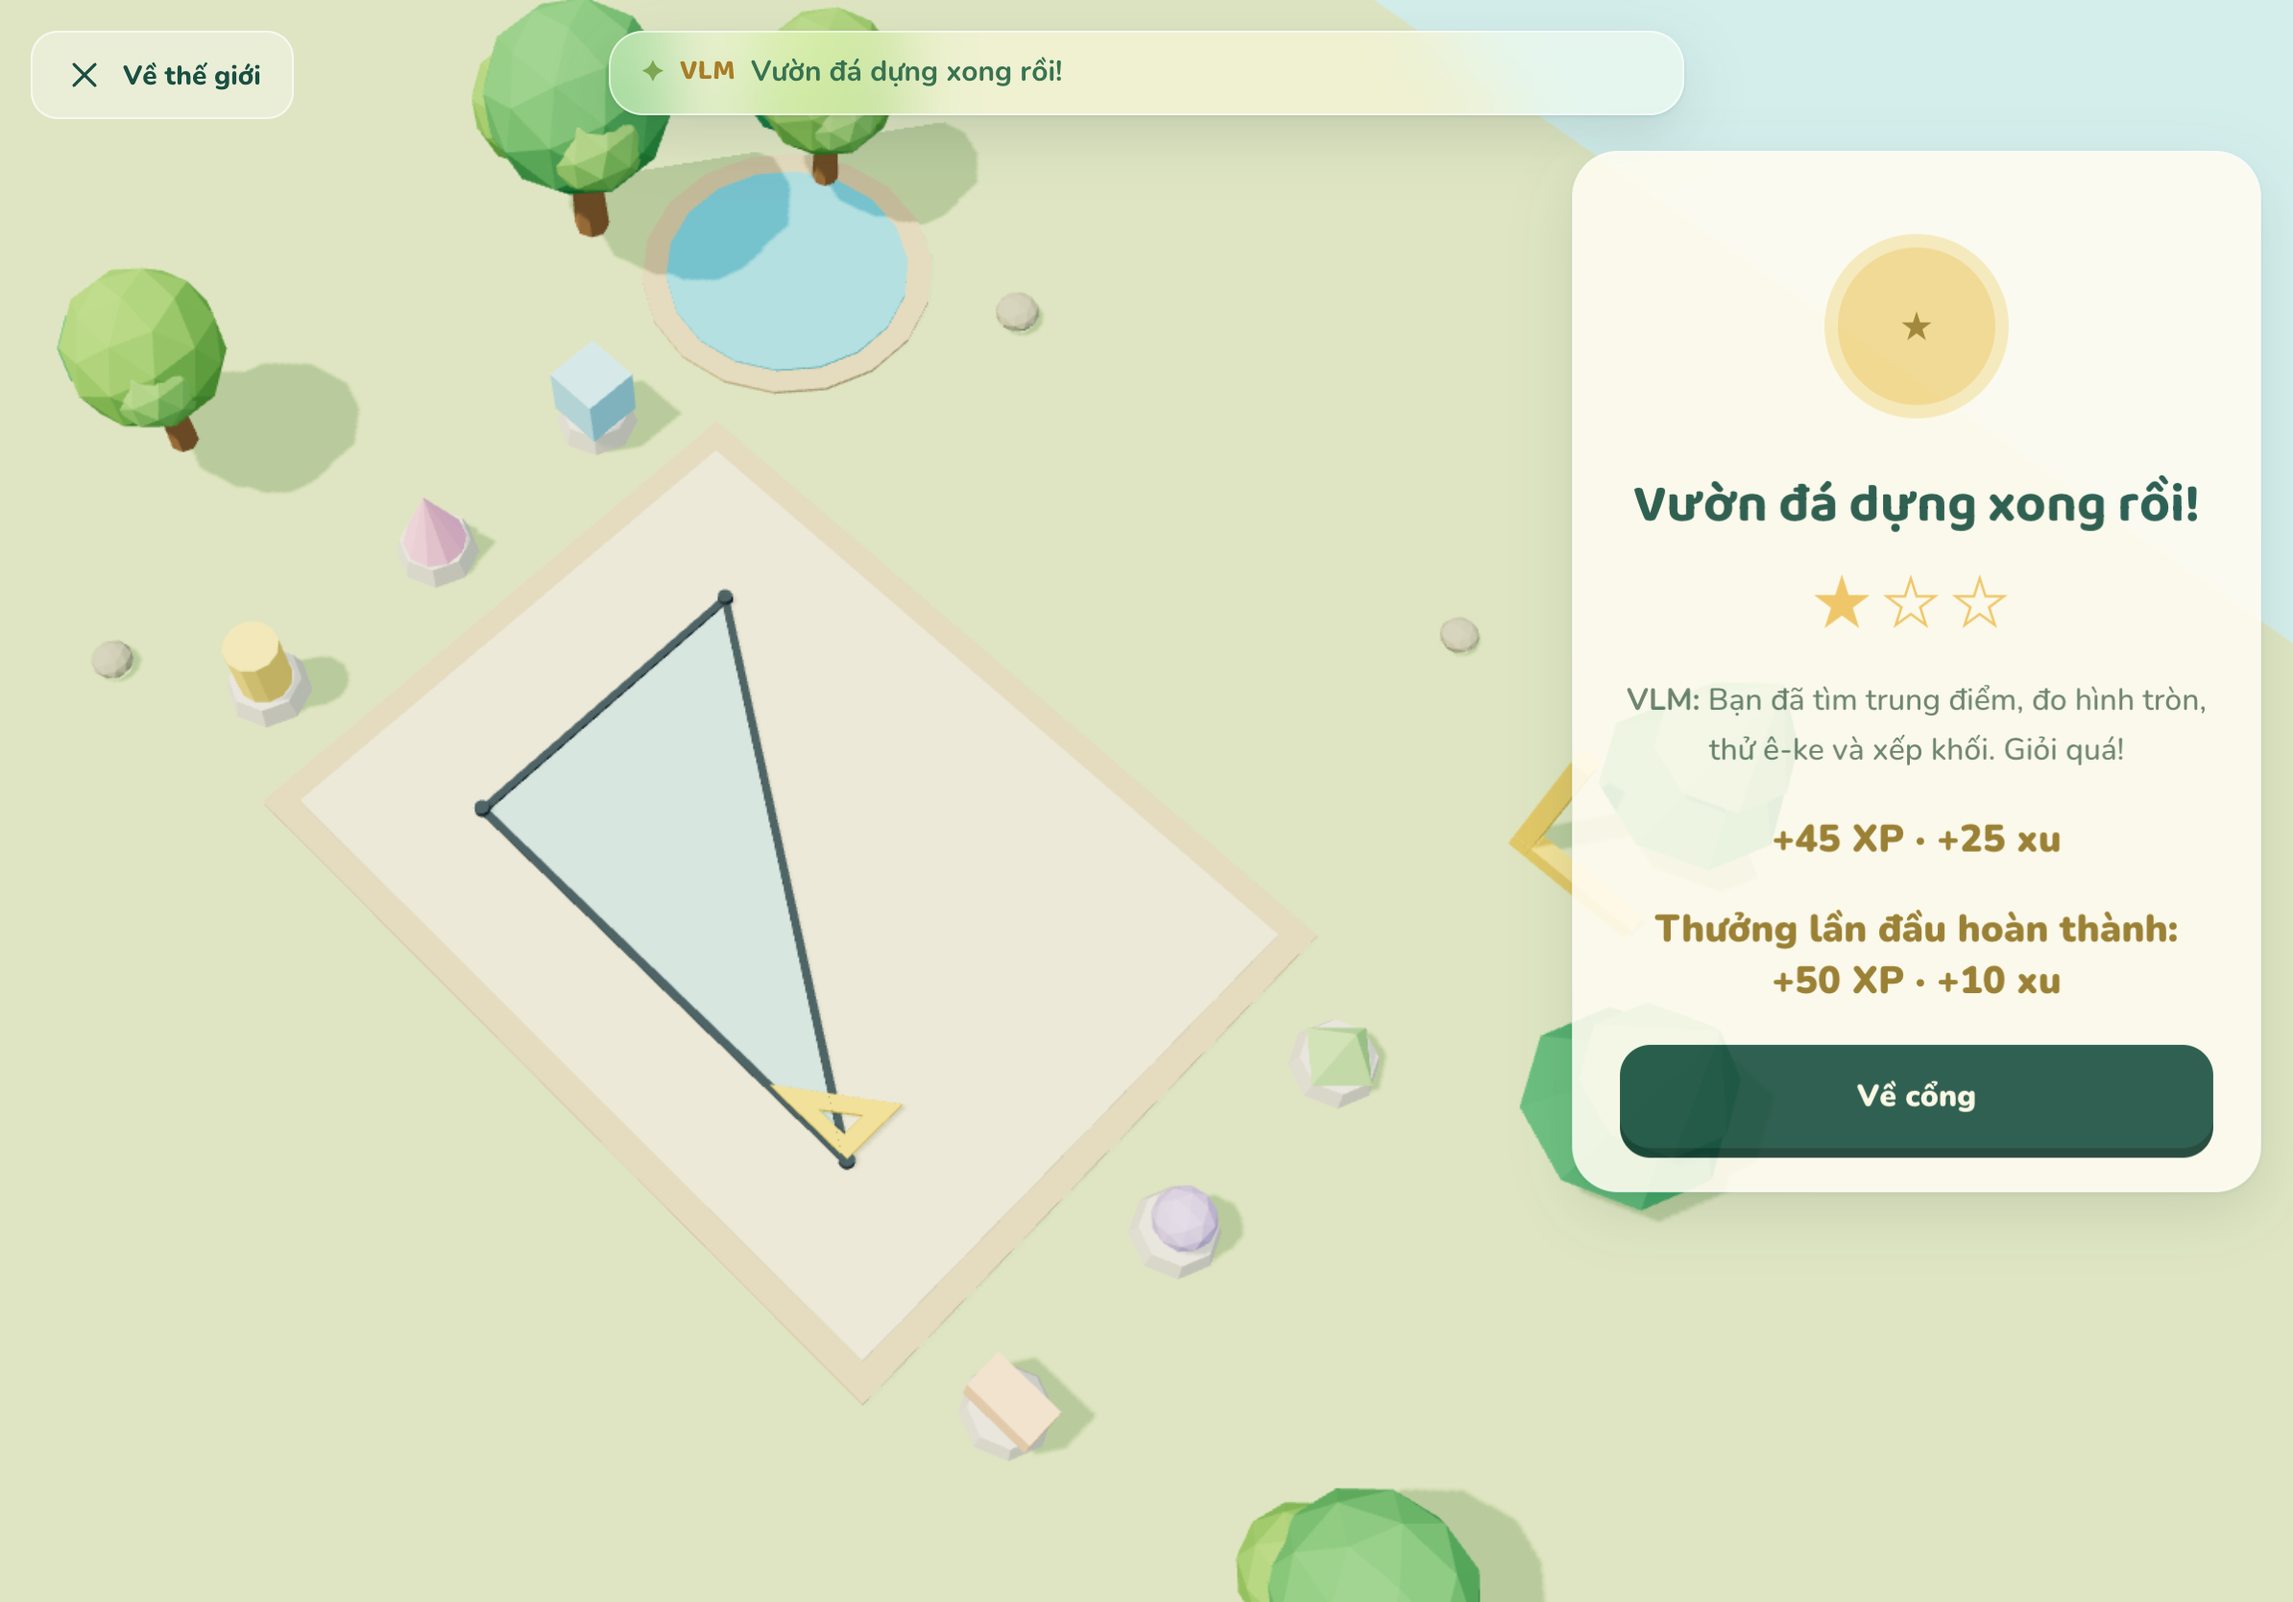
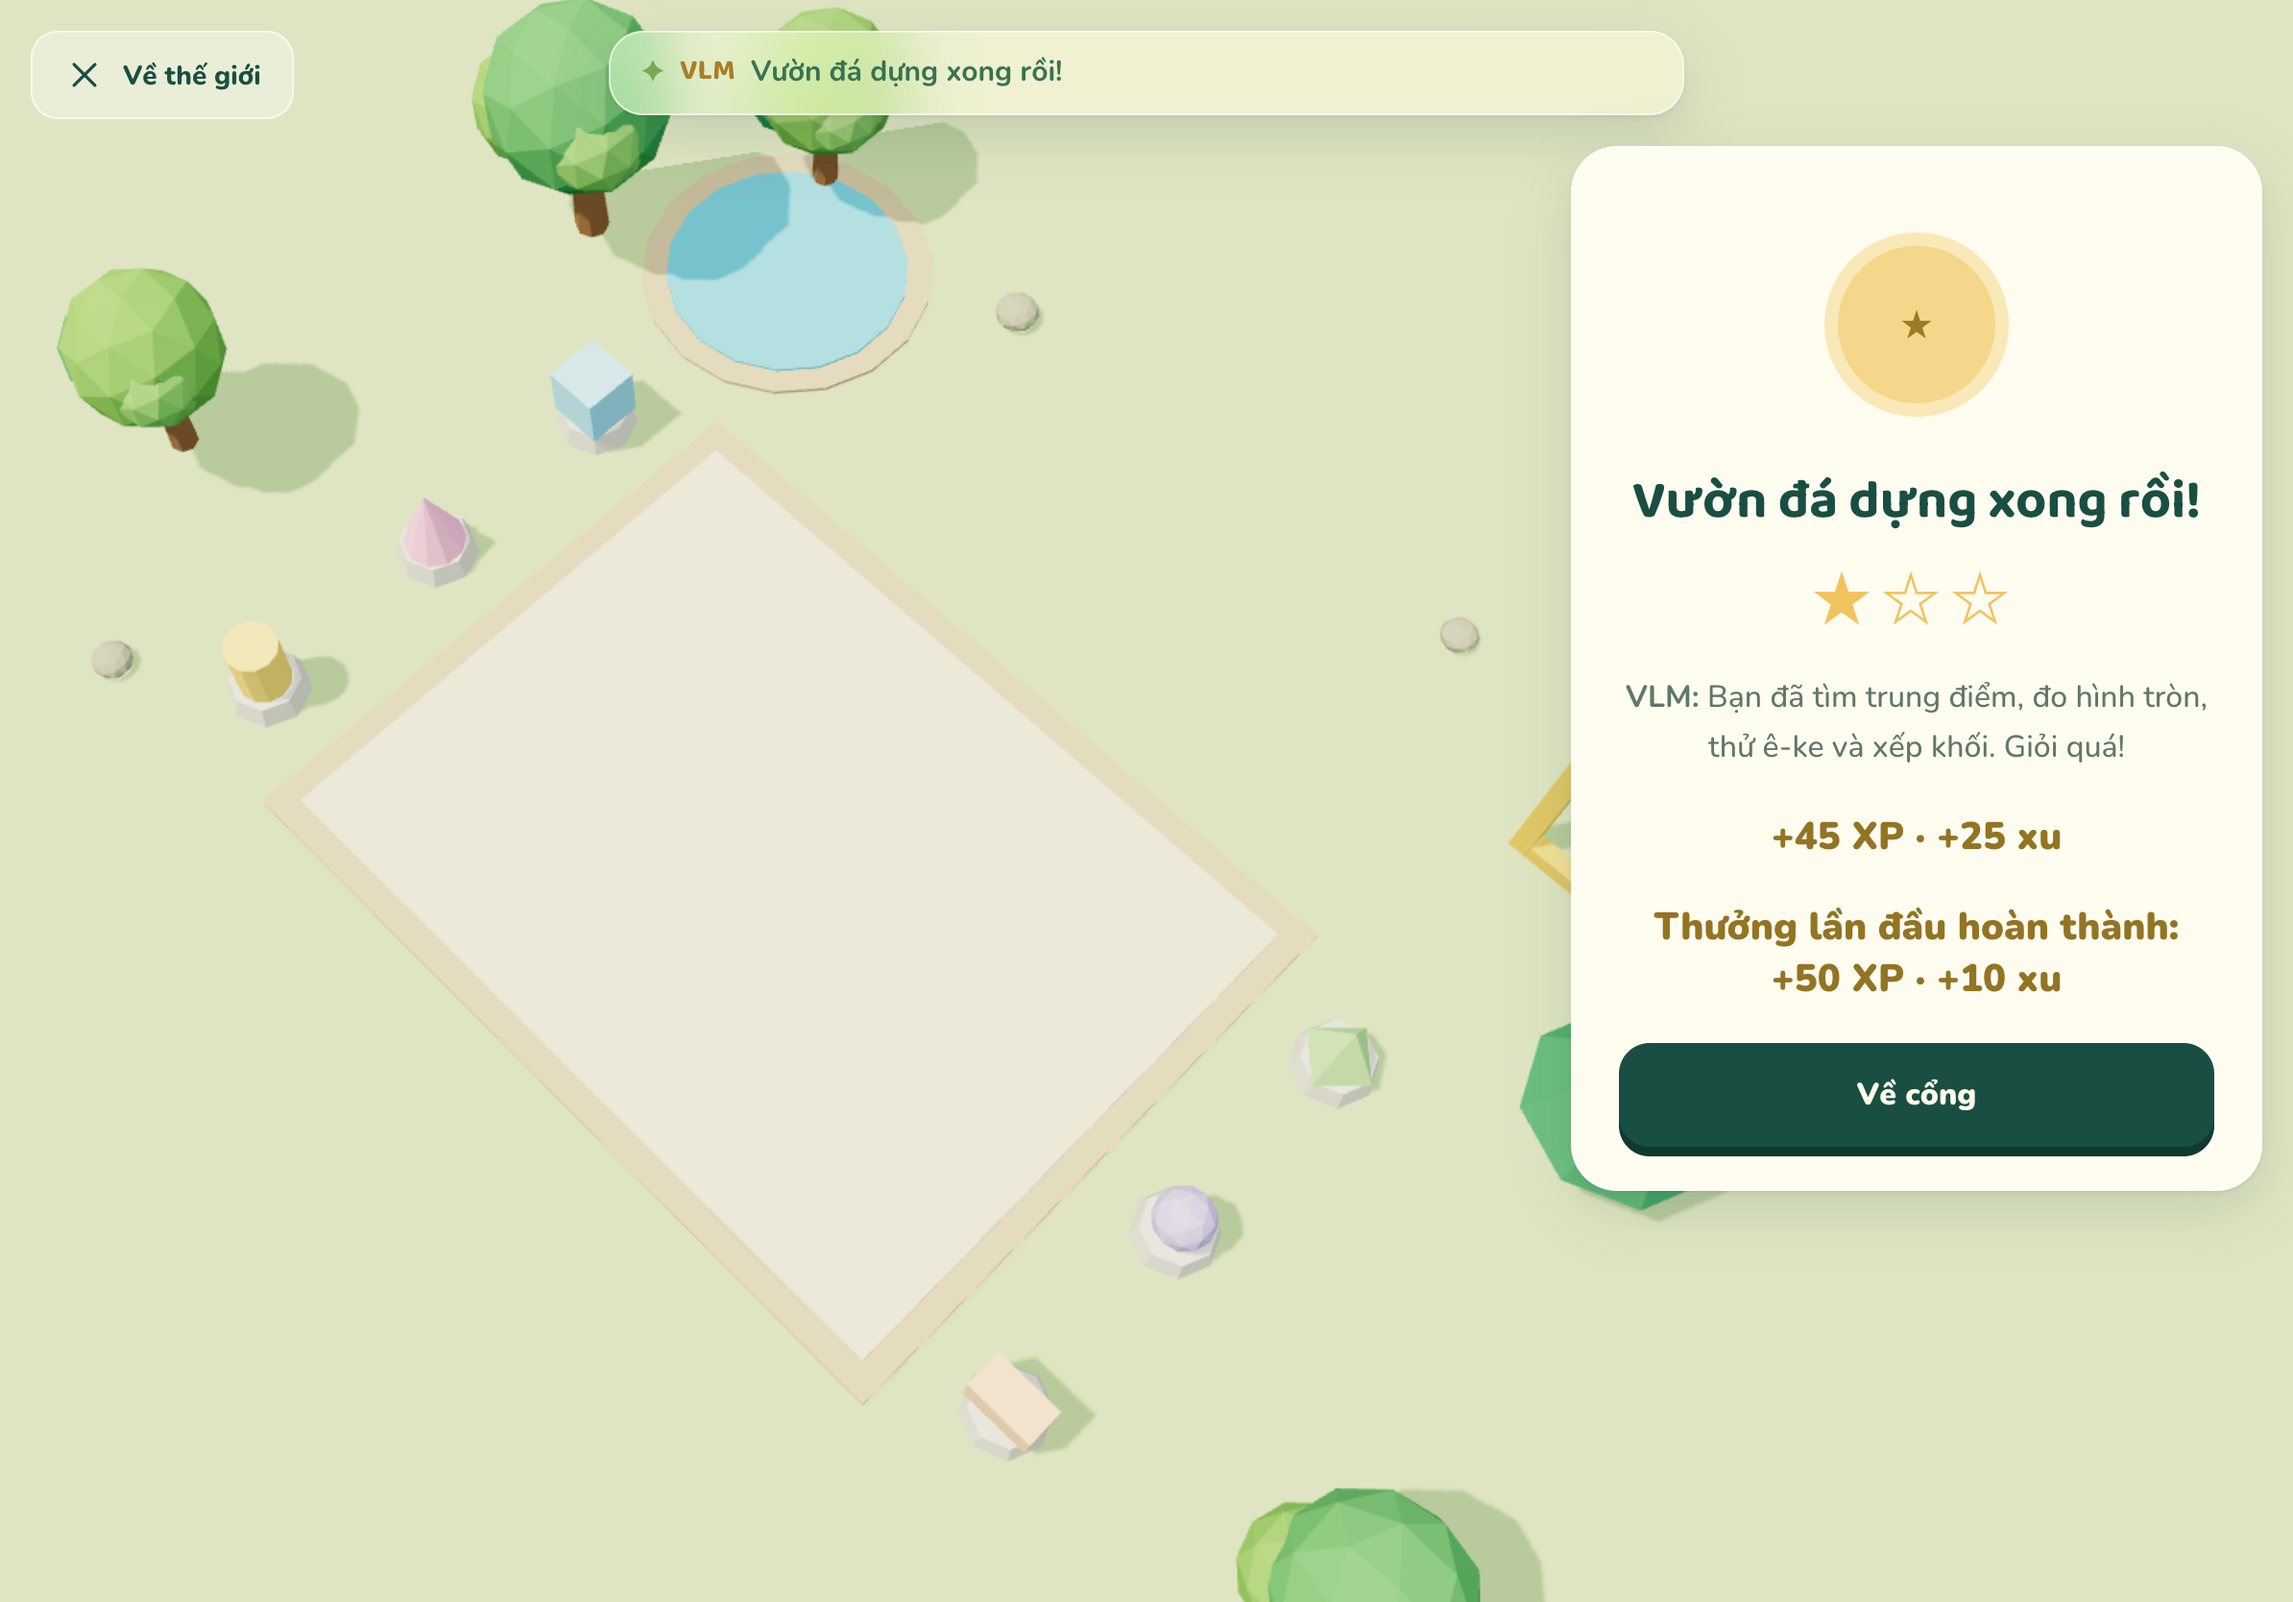
docs: phase 06 status, notes and valley screenshots (desktop, phone, tablet)

diff --git a/plans/261031-1933-reasoning-geometry-and-map-expansion/phase-06-geometry-valley-level.md b/plans/261031-1933-reasoning-geometry-and-map-expansion/phase-06-geometry-valley-level.md
@@ -6,7 +6,7 @@
 - Verification report from 02 (terms, ranges, square-as-rectangle)
 
 ## Overview
-- Date 2026-10-31. Priority P1. Status pending. Review: not started. Depends on 01, 02, 03. Parallel with 04, 05, 07, 08.
+- Date 2026-10-31. Priority P1. Status done (2026-11-02, branch `feat/ch2-p06-valley`). Review: not started. Depends on 01, 02, 03. Parallel with 04, 05, 07, 08.
 - Story: the valley's shape stones were scattered by the wind. VLM and the child find midpoints, measure circles, test corners with a big ê ke, sort shapes and build boxes to rebuild the stone garden.
 
 ## Key Insights
@@ -50,13 +50,13 @@ tests/e2e/valley-level.spec.ts  valley-level-leak.spec.ts
 6. Screenshots `reports/valley-screens/` incl. rotated-corner round on phone + tablets.
 
 ## Todo list
-- [ ] round flow + ê ke fit + tests
-- [ ] hints + tests
-- [ ] views, diorama, labels
-- [ ] panel, input, rotate buttons
-- [ ] celebration
-- [ ] e2e 4 projects + leak
-- [ ] screenshots
+- [x] round flow + ê ke fit + tests
+- [x] hints + tests
+- [x] views, diorama, labels
+- [x] panel, input, rotate buttons
+- [x] celebration
+- [x] e2e 4 projects + leak
+- [x] screenshots
 
 ## Success Criteria
 - Unit + valley e2e green on desktop, phone, tablet portrait, tablet landscape; own chunk; ≤60 draw calls; no leaks; terms match the 02 verification report.
@@ -80,3 +80,14 @@ tests/e2e/valley-level.spec.ts  valley-level-leak.spec.ts
 
 ## Next steps
 - 09 merge.
+
+## Implementation notes (2026-11-02)
+- Files: `src/levels/valley/**` (plan, flow, layouts, views, panel, input, test hook, CSS); e2e `tests/e2e/valley-level.spec.ts`, `valley-level-leak.spec.ts`. Screenshots: `reports/p06-screens/` (ê-ke round turned one step, choose-all shapes, celebration; desktop, phone, tablet portrait + landscape).
+- Plan: planner pick leads, topped up weakest-first, the five kinds take turns (no kind twice in a row, all five in six rounds). **First run** (no `sk:geo-*` seen) uses only midpoint/circle/right-angle skills (reading of "tier 1 only a–c"); afterwards all nine skills. Tier per skill box.
+- Each round = one generator item + an optional opening tap: midpoint (5 marked stones at k/6 of the log, M hidden until found at tiers 1–2), centre O (ring points are wrong taps; circle row: any centre, then its diameter shows as two coloured radii), ê-ke (tap any corner of 4 angles or a single shape; logical vector check ±1°, ✓/✗ mark, the ê-ke mesh laid on the corner), lift (single block: faces coloured, turns slowly). Classify, shape count, multi-solid and "most right angles" rounds have no action; shapes/blocks on the board press the card's option (and mirror the card's toggles in gold).
+- Action and step misses share one hint ladder; the third miss reveals (outcome not correct). Hints: 1 encourage, 2 KNTT definition (target-specific for shapes; never "a square is a rectangle"; diameter = two radii), 3 visual aid (log halves, dashed diameter through O on a free direction, spare ê-ke, corner dots, coloured faces). Unit test: no rung ≥2 contains a numeric/letter answer (9 skills × 3 tiers × 300 seeds).
+- Touch: board targets are real `<button>`s ≥48 px projected over the figure; ⟲/⟳ live in the panel (not over the board); no key hints on coarse pointers; host leave button gets 44 px inside the valley only (`:has(.valley-panel)`). Keys: arrows walk targets + Enter, 1–4 card buttons, Enter = Xong, digits → pad, H, R (Shift+R back).
+- Draw calls: max 8 on all four projects (budget 60). Leak spec: 10 cycles back to the settled baseline.
+- Test seam: `window.__valleyPlan` (test builds only) fixes the six rounds so the e2e plays ê-ke, choose-all, circle parts, lift and a revealed round deterministically.
+- **Outside ownership:** `tests/e2e/chapter2-gates-and-regions.spec.ts` (`SHIPPED = ['valley']`: valley gate is 'open', not 'coming-soon'). `level-registry` untouched: `tables` is a placeholder like garden/cave.
+
